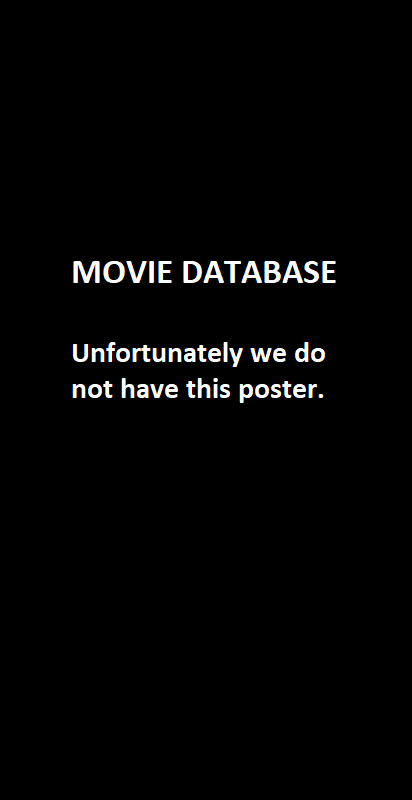
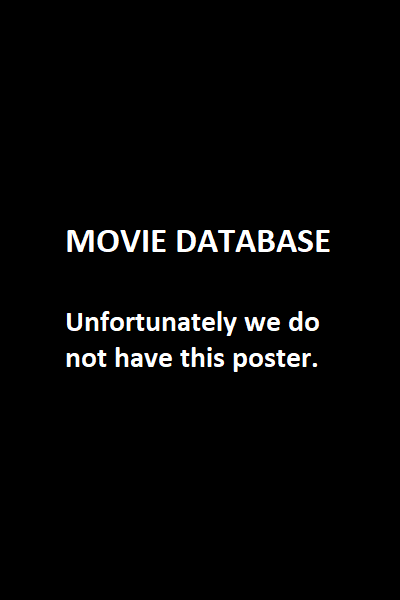
fix css problems

Changed region(s): [[0.15, 0.3, 0.84, 0.63]]

diff --git a/src/components/content/ContentsItem.vue b/src/components/content/ContentsItem.vue
@@ -2,7 +2,7 @@
   <li class="item">
     <div class="item__left-box">
       <img
-        v-if="!!imagePath"
+        v-if="!!posterPath"
         :src="imagePath"
         class="item__photo"
         alt="Movie cover"
@@ -22,6 +22,8 @@
         @click="saveDetailsAboutRecord"
         >Full synopsis<span>&gt;</span></router-link
       >
+      <p>Image path: {{ imagePath }}</p>
+      <p>Poster path: {{ posterPath }}</p>
     </div>
   </li>
 </template>
@@ -78,7 +80,17 @@ export default {
   },
   computed: {
     imagePath() {
-      return `https://image.tmdb.org/t/p/w200${this.posterPath}`;
+      //base url + file size + file path
+      /*  "poster_sizes": [
+      "w92",
+      "w154",
+      "w185",
+      "w342",
+      "w500",
+      "w780",
+      "original"
+    ] */
+      return `https://image.tmdb.org/t/p/w342${this.posterPath}`;
     },
     pagePath() {
       return `/details/${this.itemId}`;

diff --git a/src/assets/_reset.scss b/src/assets/_reset.scss
@@ -152,21 +152,21 @@ html {
 
   /*  >600 */
   @include respond(phone) {
-    font-size: 125%; // 1rem = 16px/16px = 100%
+    font-size: 120%; // 1.2rem = x/16px = 120%
   }
 
   /*  >900 */
   @include respond(tab-port) {
-    font-size: 150%; // 1.25rem = 20/16px = 125%
+    font-size: 140%; // 1.4rem = x/16px = 140%
   }
 
   /* >1200 */
   @include respond(tab-land) {
-    font-size: 175%; // 1.5rem = 24/16px = 150%
+    font-size: 160%; // 1.6rem = x/16px = 160%
   }
 
   /*  >1800 */
   @include respond(big-desktop) {
-    font-size: 200%; // 1.75rem = 28px/16px = 175%
+    font-size: 180%; // 1.8rem = x/16px = 180%
   }
 }

diff --git a/src/components/layout/TheFooter.vue b/src/components/layout/TheFooter.vue
@@ -4,8 +4,13 @@
   </section>
 </template>
 
-<style lang="scss">
+<style lang="scss" scoped>
+//fixed position of footer
 .footer {
+  position: fixed;
+  left: 0;
+  bottom: 0;
+  width: 100%;
   background-color: var(--color-black-dark-3);
   color: var(--color-white);
   padding: 1rem 0;
